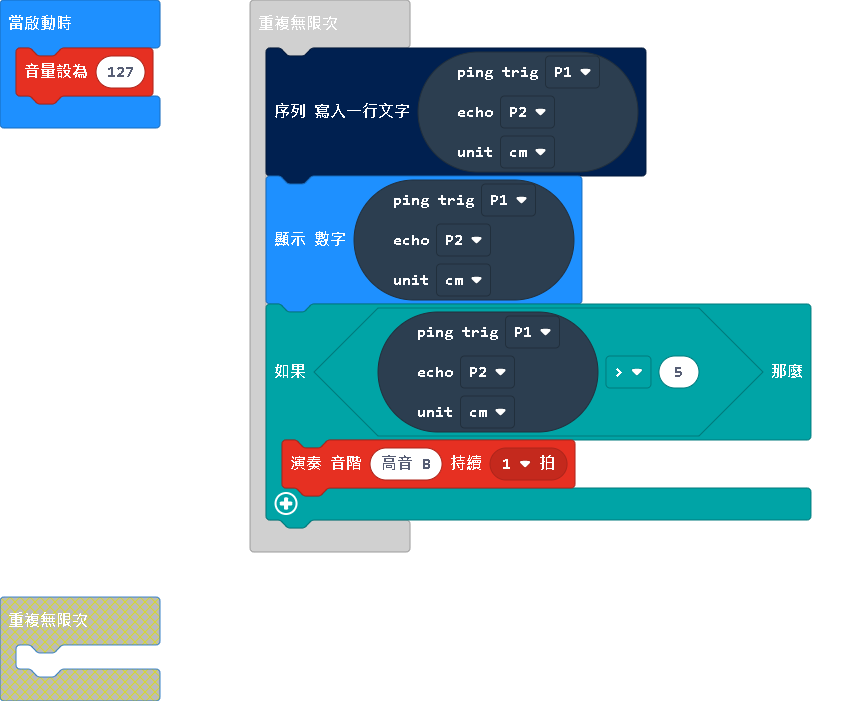
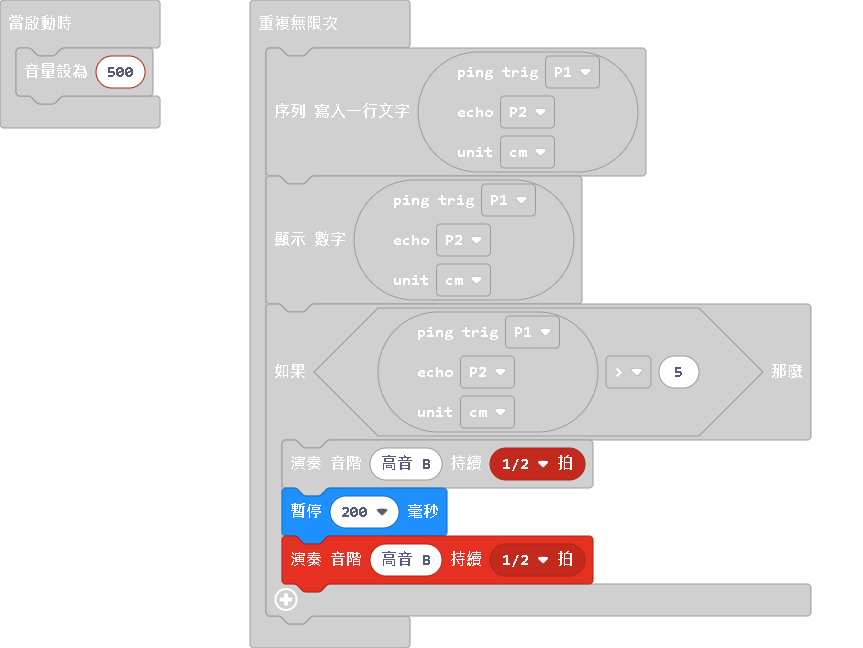
更新 main.blocks, main.ts

diff --git a/main.ts b/main.ts
@@ -1,4 +1,4 @@
-music.setVolume(127)
+music.setVolume(500)
 basic.forever(function () {
     serial.writeLine("" + (sonar.ping(
     DigitalPin.P1,
@@ -15,6 +15,8 @@ basic.forever(function () {
     DigitalPin.P2,
     PingUnit.Centimeters
     ) > 5) {
-        music.playTone(988, music.beat(BeatFraction.Whole))
+        music.playTone(988, music.beat(BeatFraction.Half))
+        basic.pause(200)
+        music.playTone(988, music.beat(BeatFraction.Half))
     }
 })
